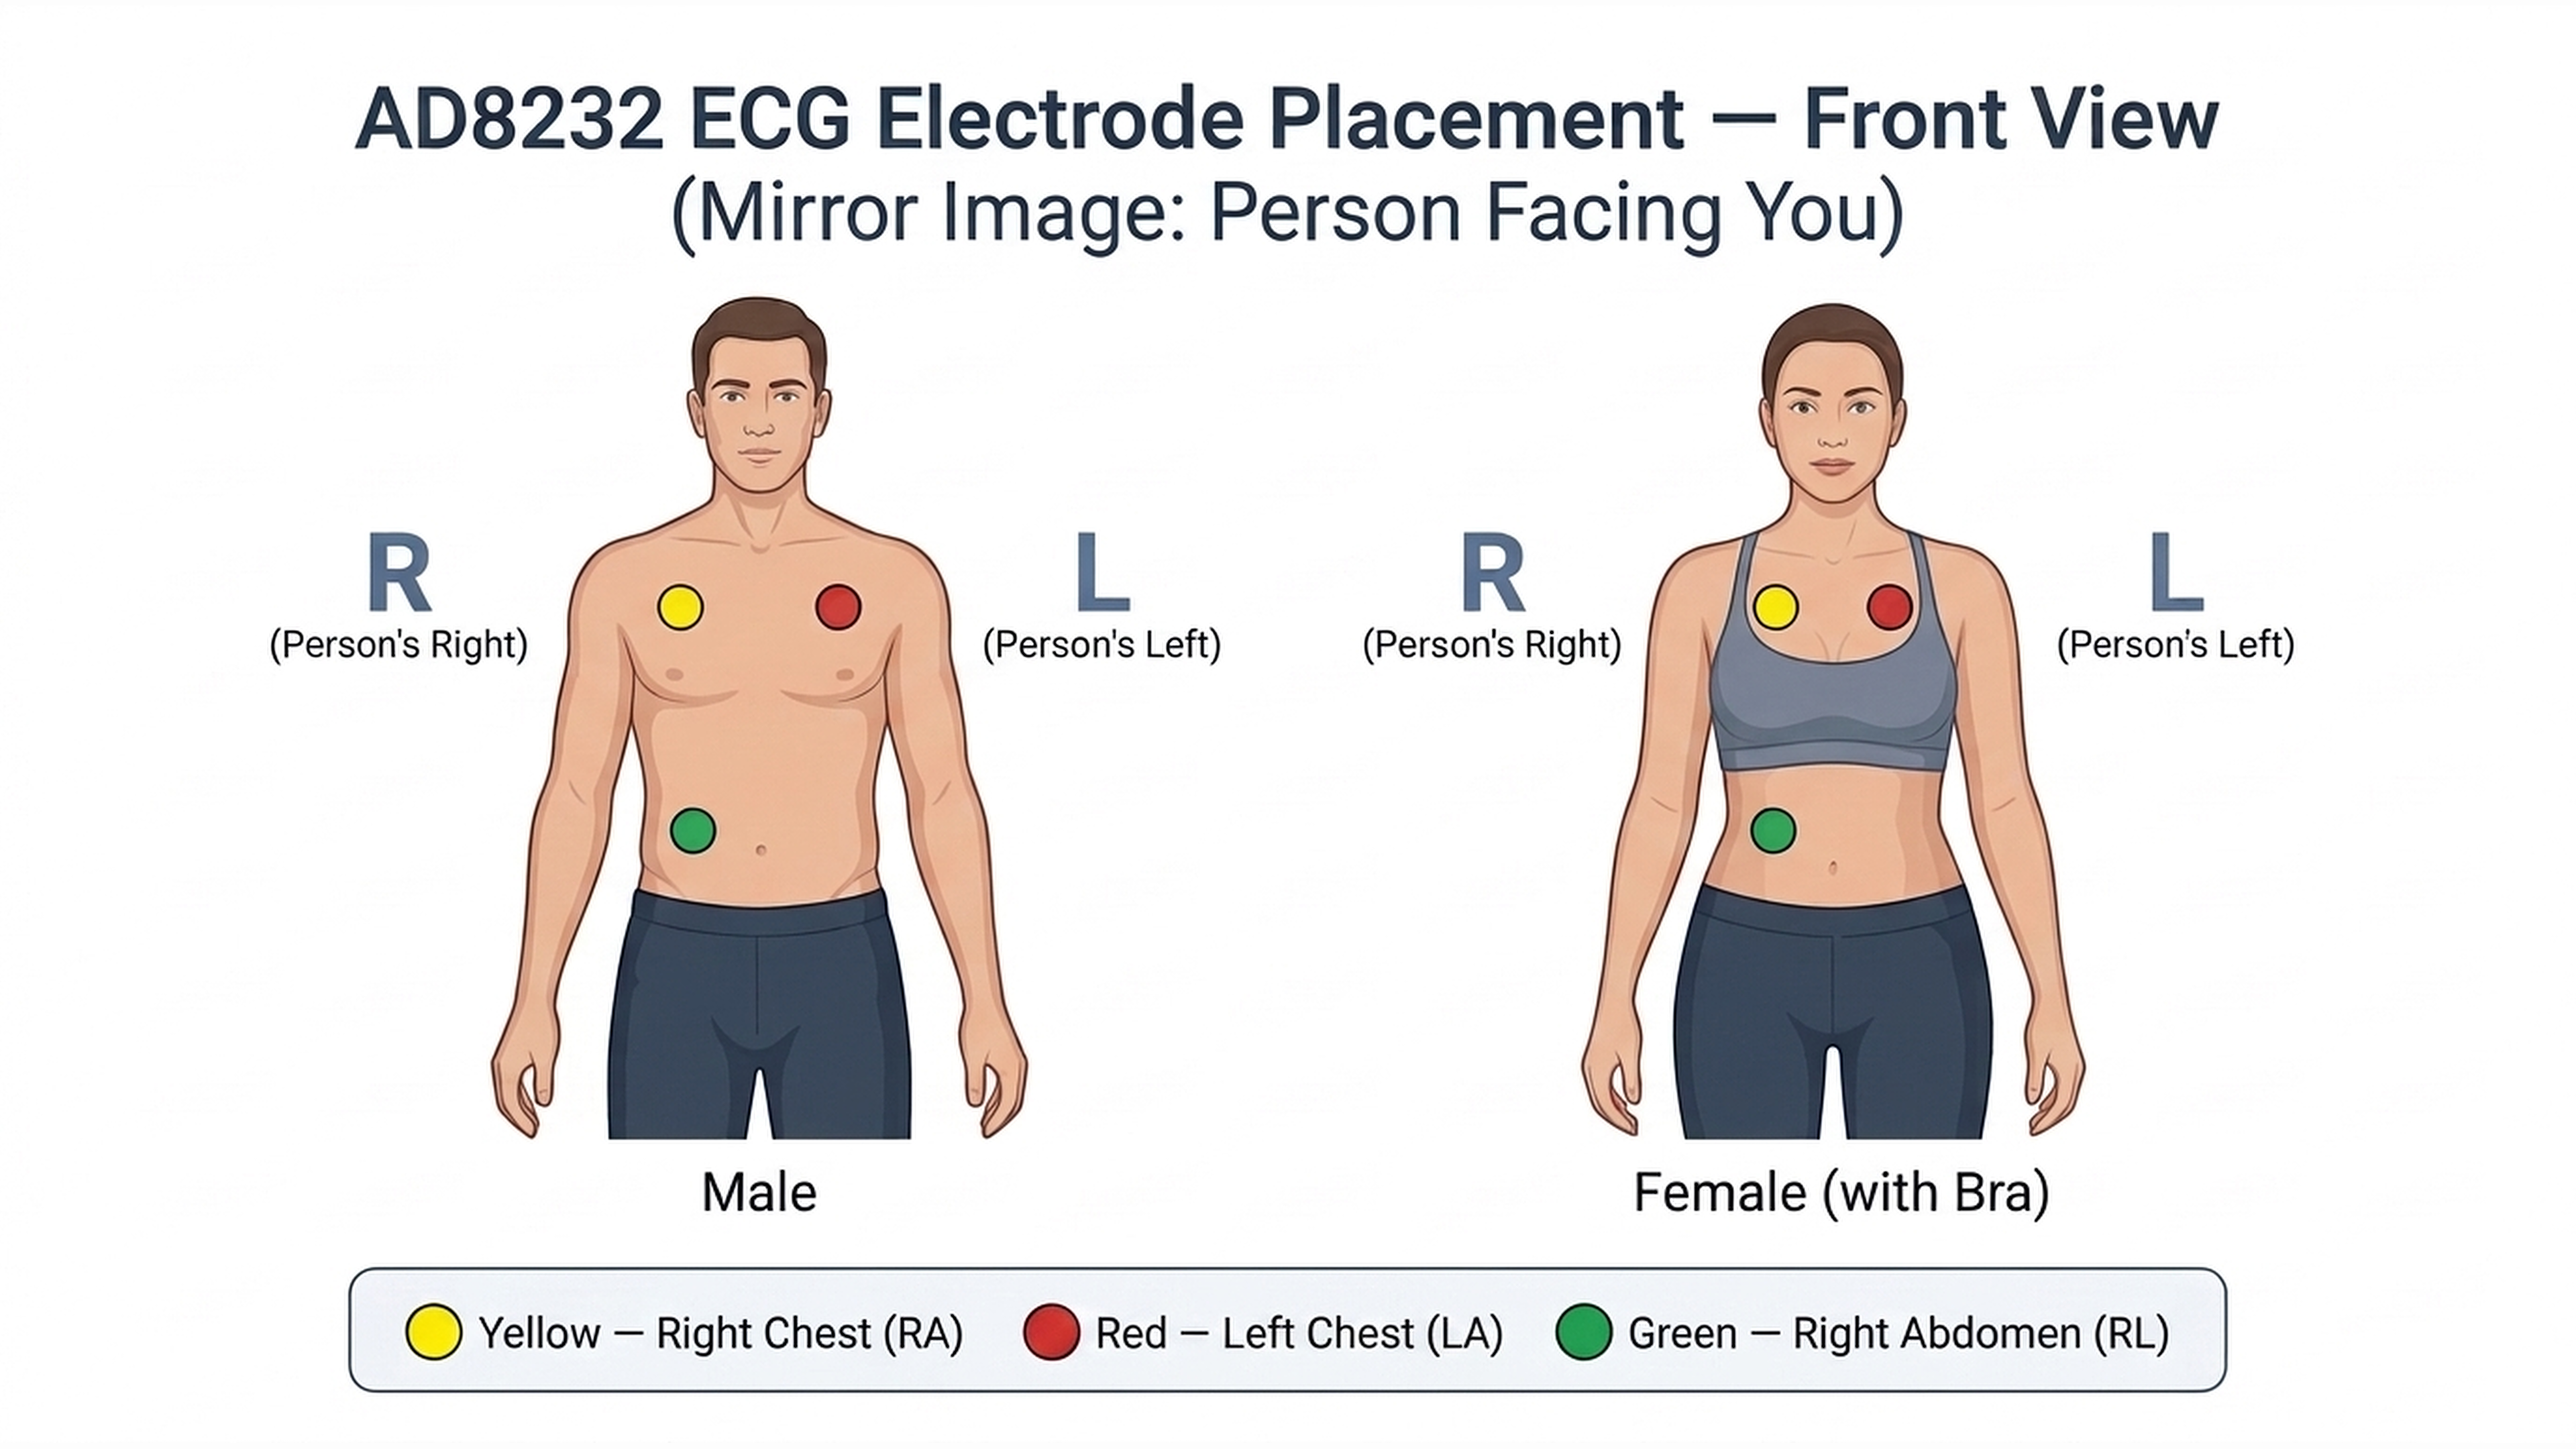
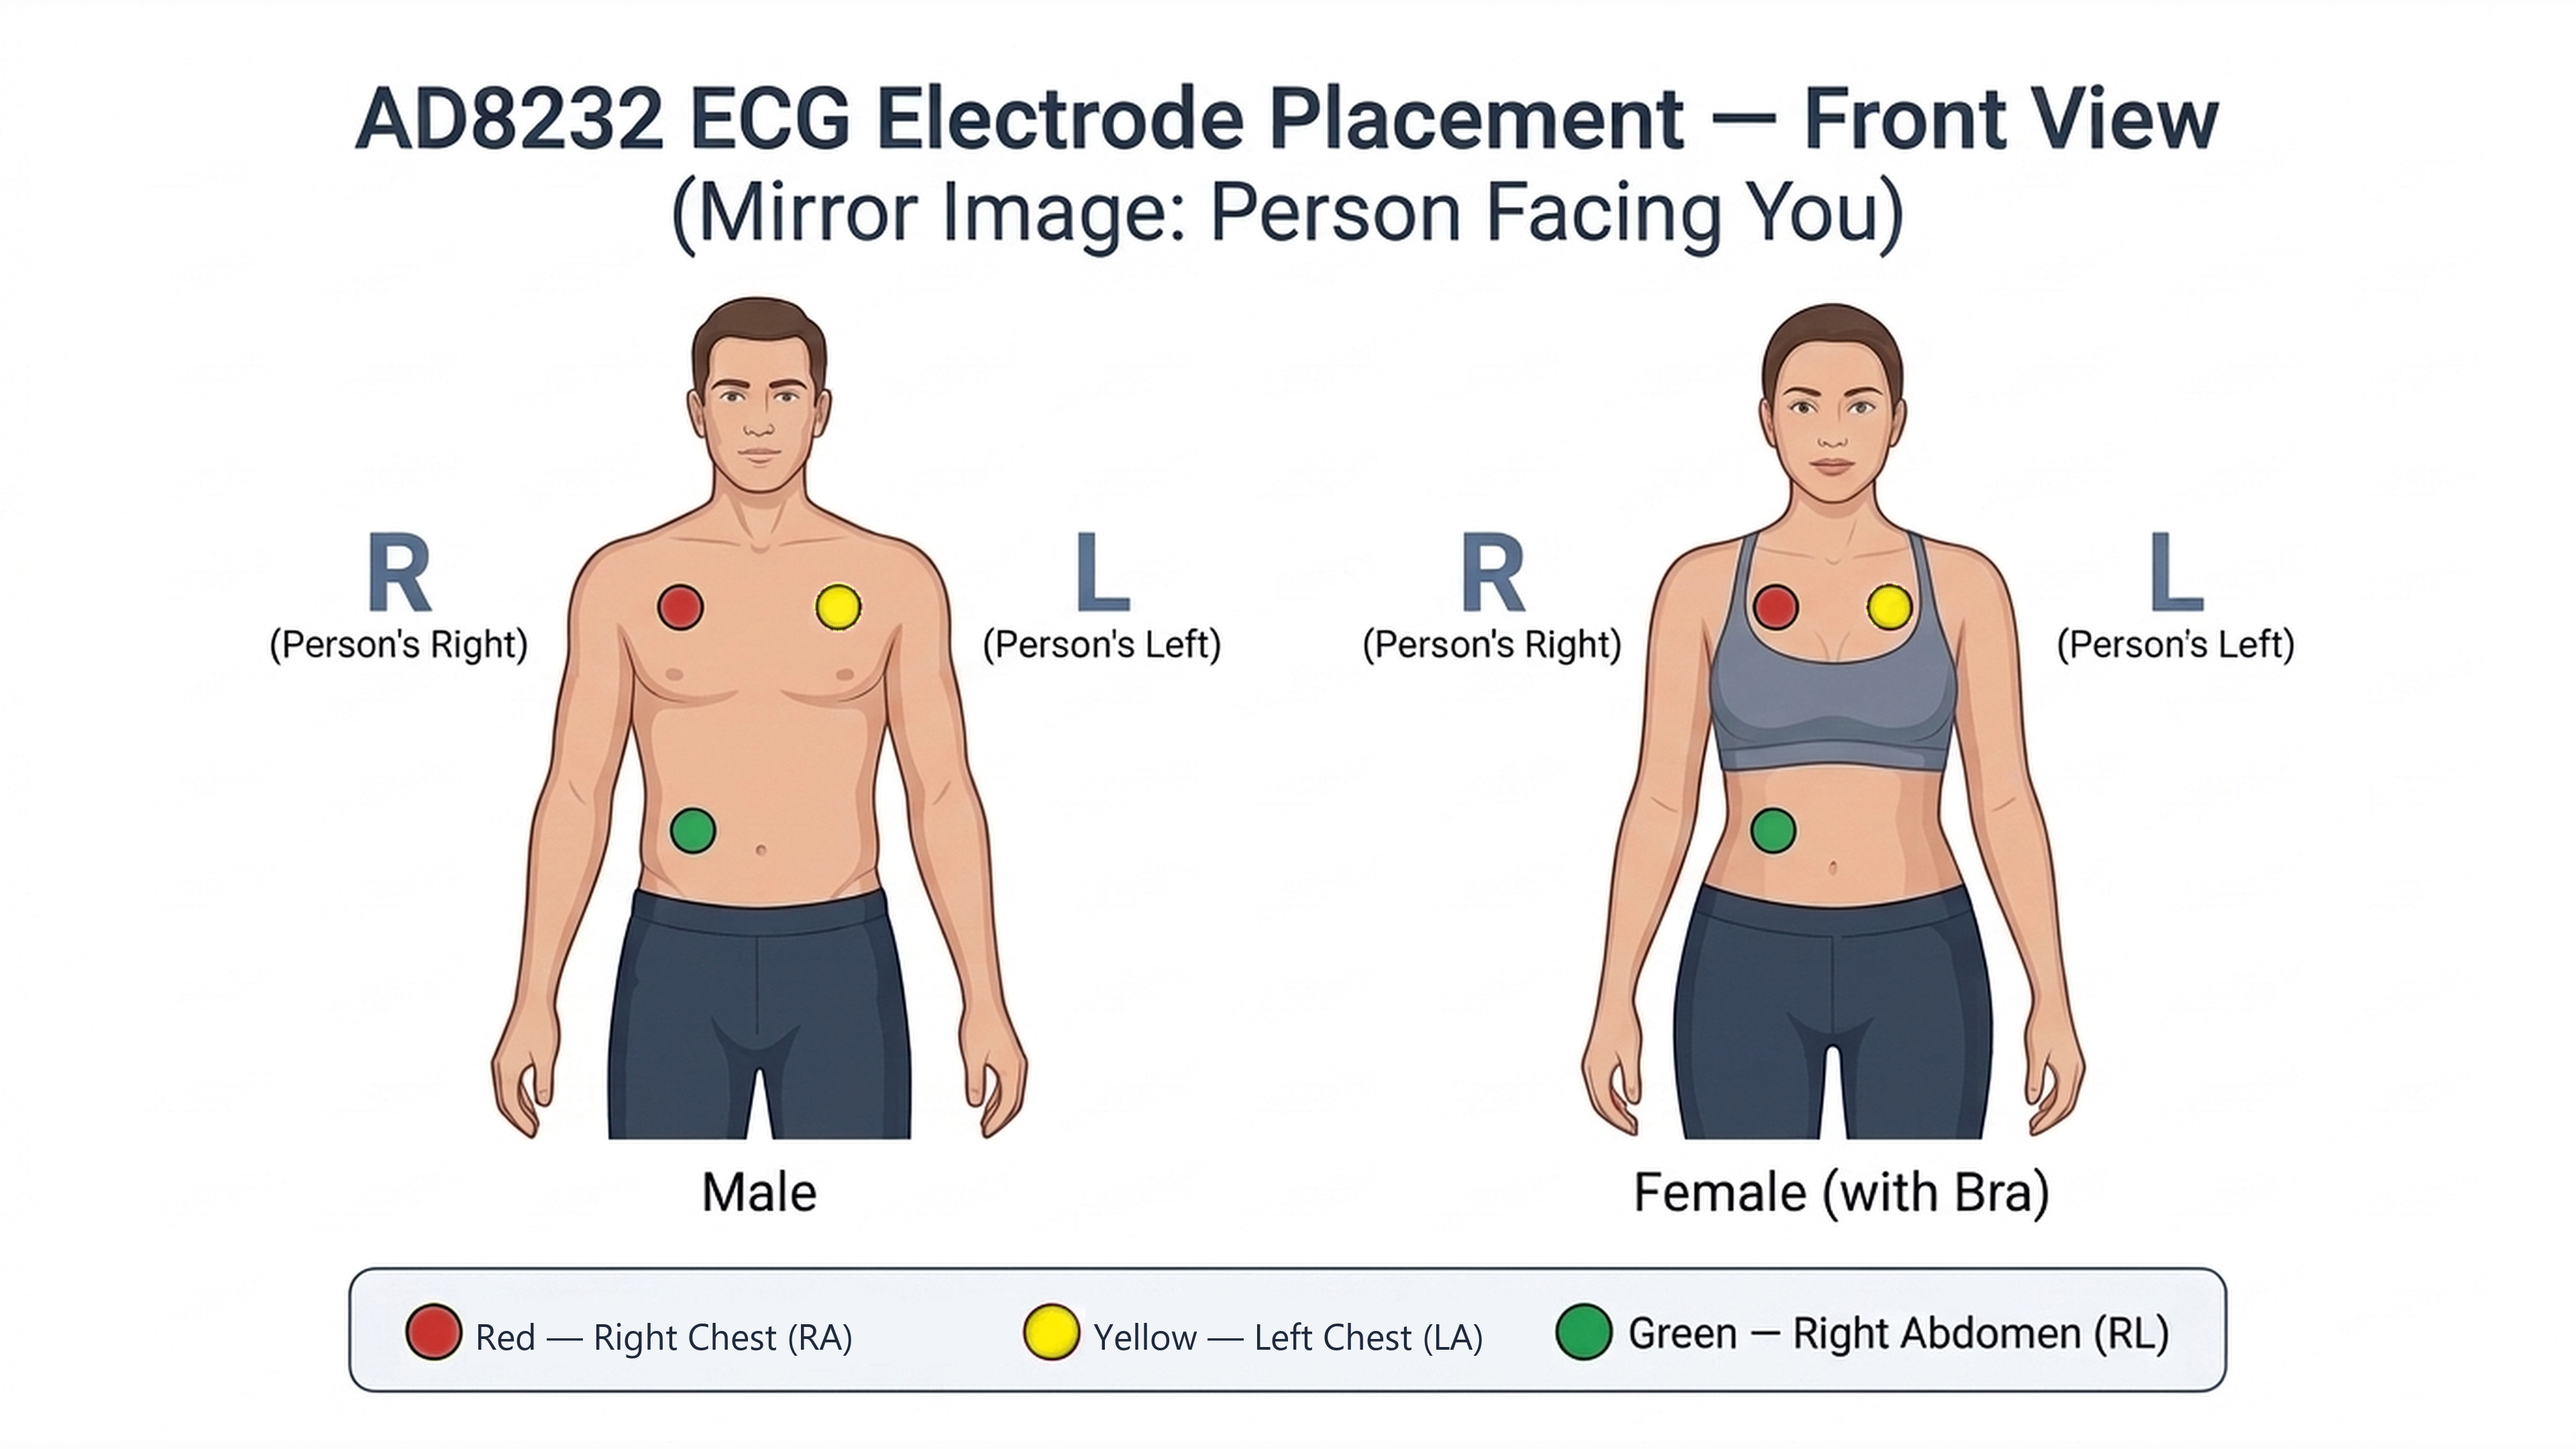
Swap Red (RA) to left and Yellow (LA) to right in ECG diagram and guides

diff --git a/he/docs/ad8232_ecg_guide.md b/he/docs/ad8232_ecg_guide.md
@@ -38,19 +38,19 @@ sidebar_label: "מדריך בסיסי לחיישן ECG (AD8232)"
 
 הכבל מתחבר לשקע ה-3.5 מ"מ בלוח ומתפצל ל-3 מדבקות ECG לפי מקרא הצבעים הבא:
 
-- 🔴 **אדום (`Red` — `LA`):** **חזה שמאל** — מתחת לעצם הבריח השמאלית (מעל קו החזייה).
-- 🟡 **צהוב (`Yellow` — `RA`):** **חזה ימין** — מתחת לעצם הבריח הימנית (מעל קו החזייה).
+- 🔴 **אדום (`Red` — `RA`):** **חזה ימין** — מתחת לעצם הבריח הימנית (מעל קו החזייה).
+- 🟡 **צהוב (`Yellow` — `LA`):** **חזה שמאל** — מתחת לעצם הבריח השמאלית (מעל קו החזייה).
 - 🟢 **ירוק (`Green` — `RL` / ייחוס):** **בטן ימין** — בצד ימין של הבטן התחתונה / צלעות תחתונות (מתחת לפס החזייה ומעל קו המכנסיים).
 
 ![מיקום אלקטרודות ECG — AD8232 (גבר ואישה, מבט מלפנים)](/img/ad8232_electrode_placement.png)
 
 > **שימו לב לכיוונים (`R` / `L` — תמונת מראה):**  
-> האיור מציג אדם העומד **מולכם**. לכן צד **ימין (`R`)** של הגוף (צהוב + ירוק) מופיע בצד **שמאל** של התמונה, וצד **שמאל (`L`)** של הגוף (אדום) מופיע בצד **ימין** של התמונה.  
+> האיור מציג אדם העומד **מולכם**. לכן צד **ימין (`R`)** של הגוף (אדום + ירוק) מופיע בצד **שמאל** של התמונה, וצד **שמאל (`L`)** של הגוף (צהוב) מופיע בצד **ימין** של התמונה.  
 > בעת חיבור עם חזייה: יש להניח את המדבקות העליונות מעל החזייה ואת המדבקה הירוקה מתחת לפס החזייה (ומעל המכנסיים) על עור יציב ונקי מרצועות או תפרים כדי למנוע רעשי שריר (EMG) ותזוזה.
 
 ### איך שלוש האלקטרודות מודדות את הזרמים החשמליים של הלב?
 בכל פעימת לב, גל של דה-פולריזציה חשמלית מתפשט בשריר הלב (מהעליות אל החדרים) ויוצר **דיפול חשמלי** משתנה בתוך בית החזה. הדיפול הזה מזרים זרמים יוניים חלשים דרך רקמות הגוף המוליכות ויוצר הפרשי פוטנציאל זעירים (`~1 mV`) על פני העור:
-- **זוג המדידה הדיפרנציאלי (`RA` צהוב ו-`LA` אדום):** ה-AD8232 מודד את **הפרש המתחים (`LA − RA`)** לרוחב החזה (בקירוב ל-**Lead I**), שקולט את השינוי בפוטנציאל החשמלי של גל ה-ECG (P–QRS–T). מכיוון ששתי האלקטרודות קולטות הפרעות סביבתיות דומות (כגון זמזום רשת `50 Hz`), החיסור ביניהן מנחית את הרעש המשותף ומשאיר בעיקר את אות הלב.
+- **זוג המדידה הדיפרנציאלי (`RA` אדום ו-`LA` צהוב):** ה-AD8232 מודד את **הפרש המתחים (`LA − RA`)** לרוחב החזה (בקירוב ל-**Lead I**), שקולט את השינוי בפוטנציאל החשמלי של גל ה-ECG (P–QRS–T). מכיוון ששתי האלקטרודות קולטות הפרעות סביבתיות דומות (כגון זמזום רשת `50 Hz`), החיסור ביניהן מנחית את הרעש המשותף ומשאיר בעיקר את אות הלב.
 - **אלקטרודת הייחוס (`RL` ירוק בבטן ימין):** מספקת נקודת ייחוס חשמלית יציבה (מעגל **Right Leg Drive / RLD**) שמעגנת את מתח הגוף לנקודת האמצע של המגבר (`~1.65 V`) ועוזרת לבטל רעשי רקע משותפים.
 
 ---

diff --git a/i18n/en/docusaurus-plugin-content-docs/current/docs/ad8232_ecg_guide.md b/i18n/en/docusaurus-plugin-content-docs/current/docs/ad8232_ecg_guide.md
@@ -38,19 +38,19 @@ Because raw ECG at the skin is only **`~1 mV`** (less than a single step of Ardu
 
 Plug the 3-lead cable into the 3.5 mm jack and attach the snap electrodes according to our kit color legend:
 
-- 🔴 **Red (`LA`):** **Left Chest** — below the left collarbone (above the bra line).
-- 🟡 **Yellow (`RA`):** **Right Chest** — below the right collarbone (above the bra line).
+- 🔴 **Red (`RA`):** **Right Chest** — below the right collarbone (above the bra line).
+- 🟡 **Yellow (`LA`):** **Left Chest** — below the left collarbone (above the bra line).
 - 🟢 **Green (`RL` / Reference):** **Right Abdomen** — lower right ribcage / abdomen (below the bra band and above the waistband).
 
 ![AD8232 ECG Electrode Placement (Male and Female, Front View)](/img/ad8232_electrode_placement.png)
 
 > **Orientation Note (`R` / `L` — Mirror Image):**  
-> The illustration shows a person **facing you**. The subject's **Right side (`R` — Yellow & Green)** appears on the **left** side of the image, and the subject's **Left side (`L` — Red)** appears on the **right** side of the image.  
+> The illustration shows a person **facing you**. The subject's **Right side (`R` — Red & Green)** appears on the **left** side of the image, and the subject's **Left side (`L` — Yellow)** appears on the **right** side of the image.  
 > When wearing a bra: place the upper pads cleanly above the bra and the green reference pad cleanly below the bra band (above pants waistband), on relaxed skin clear of straps or underwire to minimize EMG/motion noise.
 
 ### How This 3-Lead Setup Measures the Heart's Electrical Currents
 With each heartbeat, a wave of electrical depolarization sweeps across the heart muscle (from the atria down through the ventricles), creating a changing **electric dipole** inside the chest. That dipole drives weak ionic currents through conductive body tissues, producing tiny voltage differences (`~1 mV`) across the skin:
-- **Differential Measurement Pair (`RA` Yellow & `LA` Red):** The AD8232 measures the **voltage difference (`LA − RA`)** across the chest (approximating **Lead I**), capturing the P–QRS–T waveform as the cardiac dipole sweeps across the torso. Because both electrodes pick up nearly identical ambient interference (such as `50 Hz` mains hum), subtracting them cancels common-mode noise while preserving the heart's signal.
+- **Differential Measurement Pair (`RA` Red & `LA` Yellow):** The AD8232 measures the **voltage difference (`LA − RA`)** across the chest (approximating **Lead I**), capturing the P–QRS–T waveform as the cardiac dipole sweeps across the torso. Because both electrodes pick up nearly identical ambient interference (such as `50 Hz` mains hum), subtracting them cancels common-mode noise while preserving the heart's signal.
 - **Reference / Driven Electrode (`RL` Green on Right Abdomen):** Acts as the electrical reference (**Right Leg Drive / RLD**), anchoring the body's baseline potential to the amplifier's `~1.65 V` midpoint and actively suppressing common-mode interference.
 
 ---
